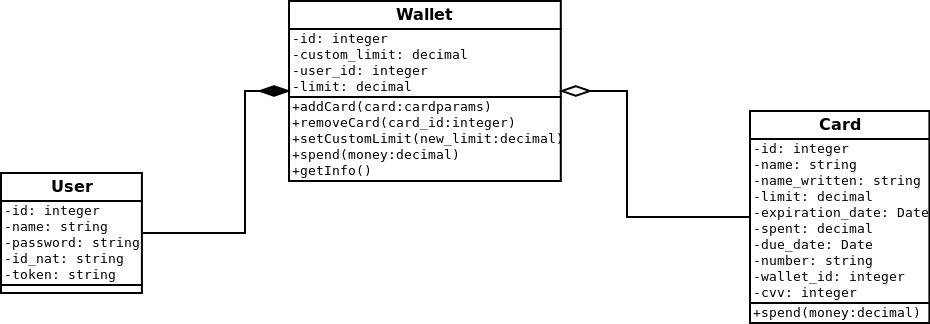
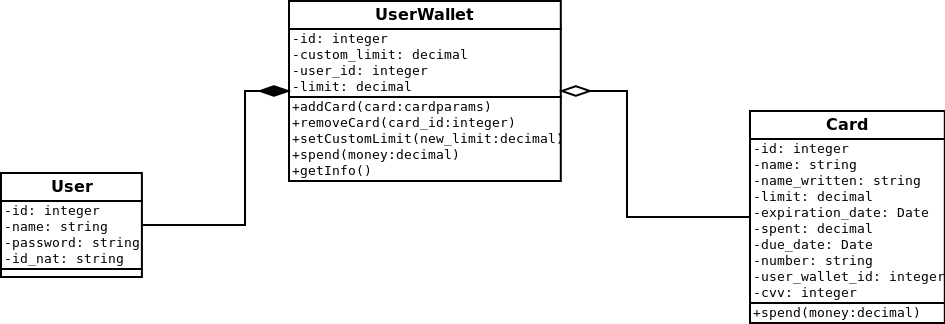
Card model generated and relation setup

diff --git a/db/schema.rb b/db/schema.rb
@@ -10,7 +10,20 @@
 #
 # It's strongly recommended that you check this file into your version control system.
 
-ActiveRecord::Schema.define(version: 20171105194827) do
+ActiveRecord::Schema.define(version: 20171105203617) do
+
+  create_table "cards", force: :cascade do |t|
+    t.string "name"
+    t.string "name_written"
+    t.string "number"
+    t.date "expiration_date"
+    t.integer "user_wallet_id"
+    t.integer "cvv"
+    t.decimal "spent"
+    t.decimal "limit"
+    t.datetime "created_at", null: false
+    t.datetime "updated_at", null: false
+  end
 
   create_table "user_wallets", force: :cascade do |t|
     t.decimal "custom_limit"

diff --git a/db/migrate/20171105203617_create_cards.rb b/db/migrate/20171105203617_create_cards.rb
@@ -1,0 +1,16 @@
+class CreateCards < ActiveRecord::Migration[5.1]
+  def change
+    create_table :cards do |t|
+      t.string :name
+      t.string :name_written
+      t.string :number
+      t.date :expiration_date
+      t.integer :user_wallet_id
+      t.integer :cvv
+      t.decimal :spent
+      t.decimal :limit
+
+      t.timestamps
+    end
+  end
+end

diff --git a/test/controllers/card_controller_test.rb b/test/controllers/card_controller_test.rb
@@ -1,0 +1,7 @@
+require 'test_helper'
+
+class CardControllerTest < ActionDispatch::IntegrationTest
+  # test "the truth" do
+  #   assert true
+  # end
+end

diff --git a/app/models/user_wallet.rb b/app/models/user_wallet.rb
@@ -1,6 +1,7 @@
 class UserWallet < ApplicationRecord
 	belongs_to :user
-
+	has_many :cards
+	
 	before_save :set_default_values
 
 	private 

diff --git a/test/models/card_test.rb b/test/models/card_test.rb
@@ -1,0 +1,7 @@
+require 'test_helper'
+
+class CardTest < ActiveSupport::TestCase
+  # test "the truth" do
+  #   assert true
+  # end
+end

diff --git a/app/models/card.rb b/app/models/card.rb
@@ -1,0 +1,3 @@
+class Card < ApplicationRecord
+	belongs_to :user_wallet 
+end

diff --git a/app/controllers/card_controller.rb b/app/controllers/card_controller.rb
@@ -1,0 +1,2 @@
+class CardController < ApplicationController
+end

diff --git a/README.md b/README.md
@@ -36,5 +36,3 @@ Testes: GREEN
 	-> Retorna: custom_limit, limit, credit_available
 
 
-
-
